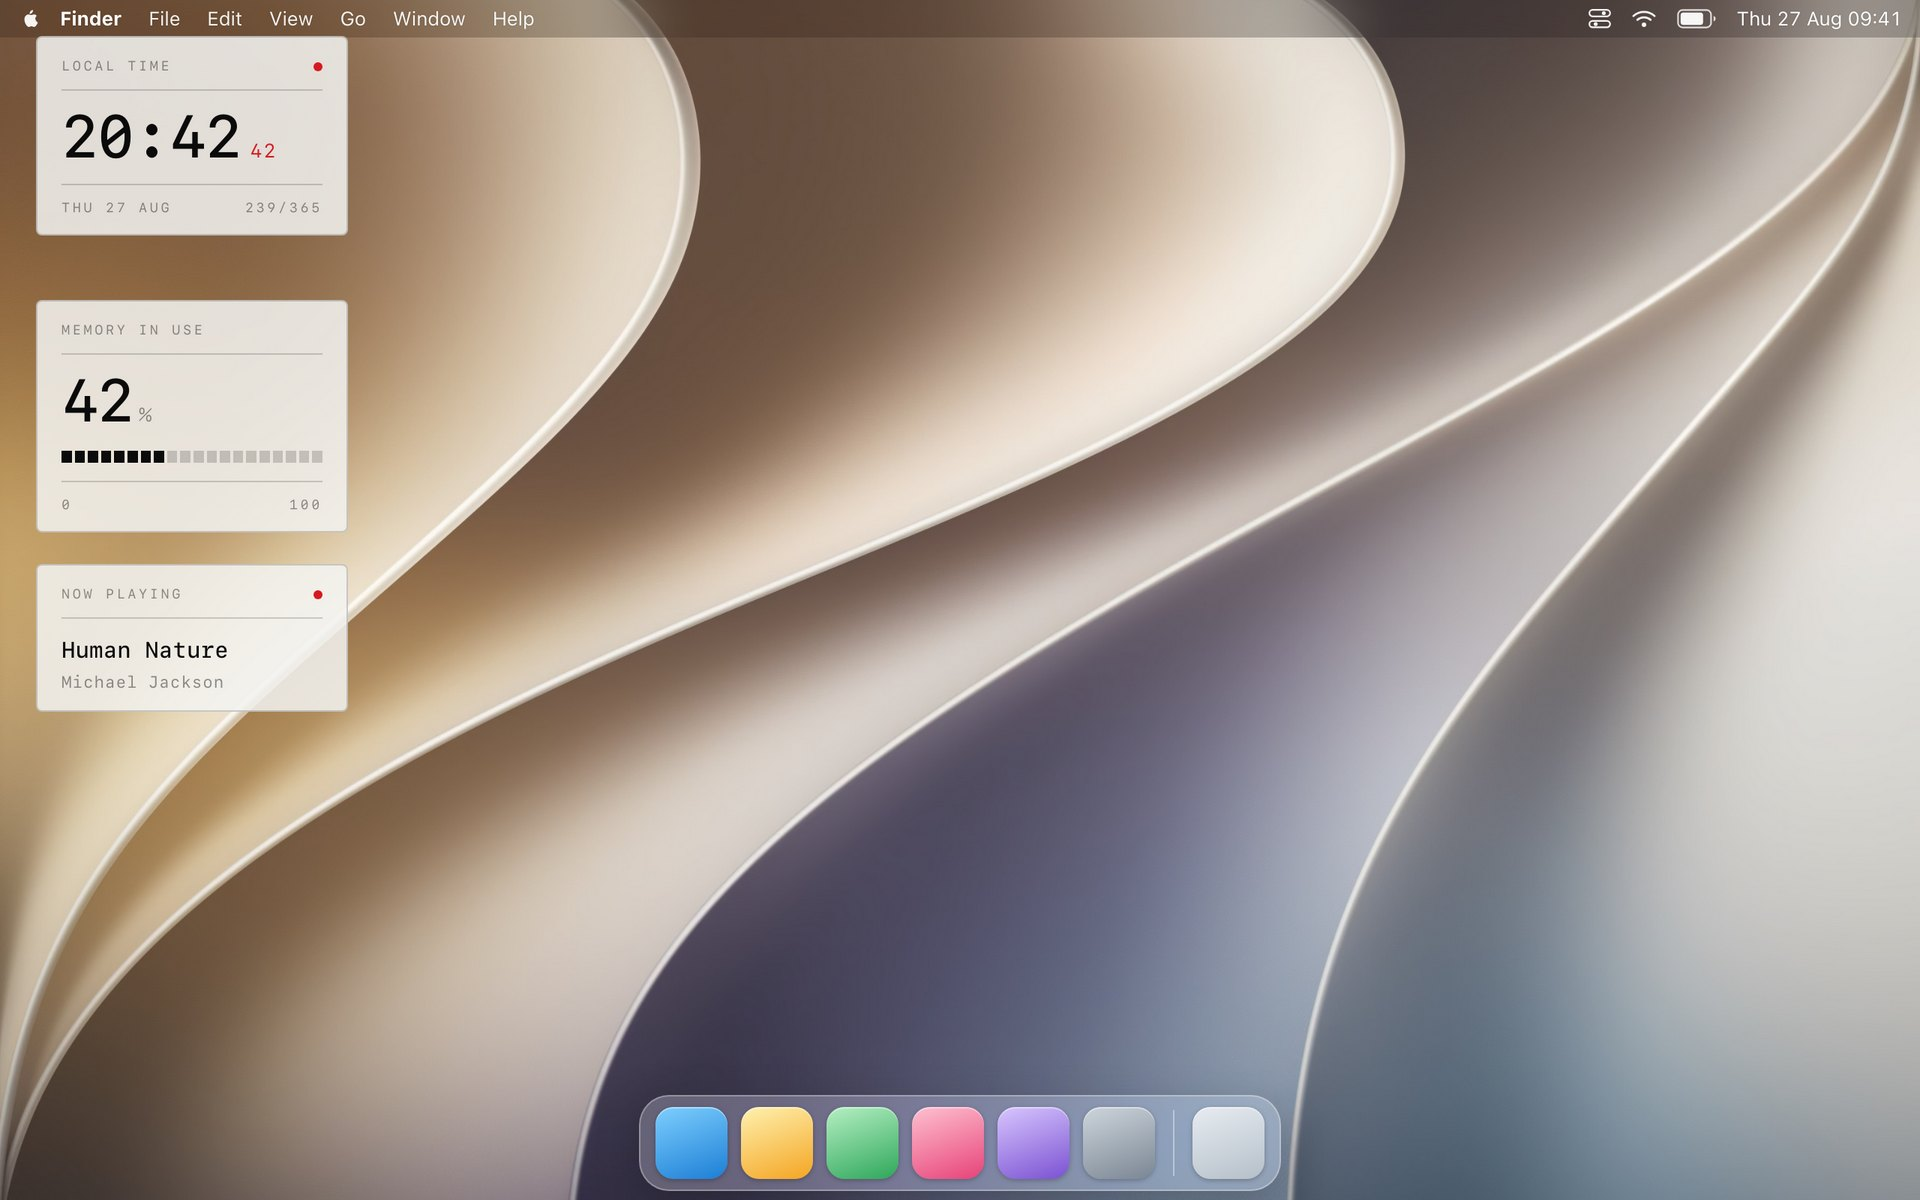
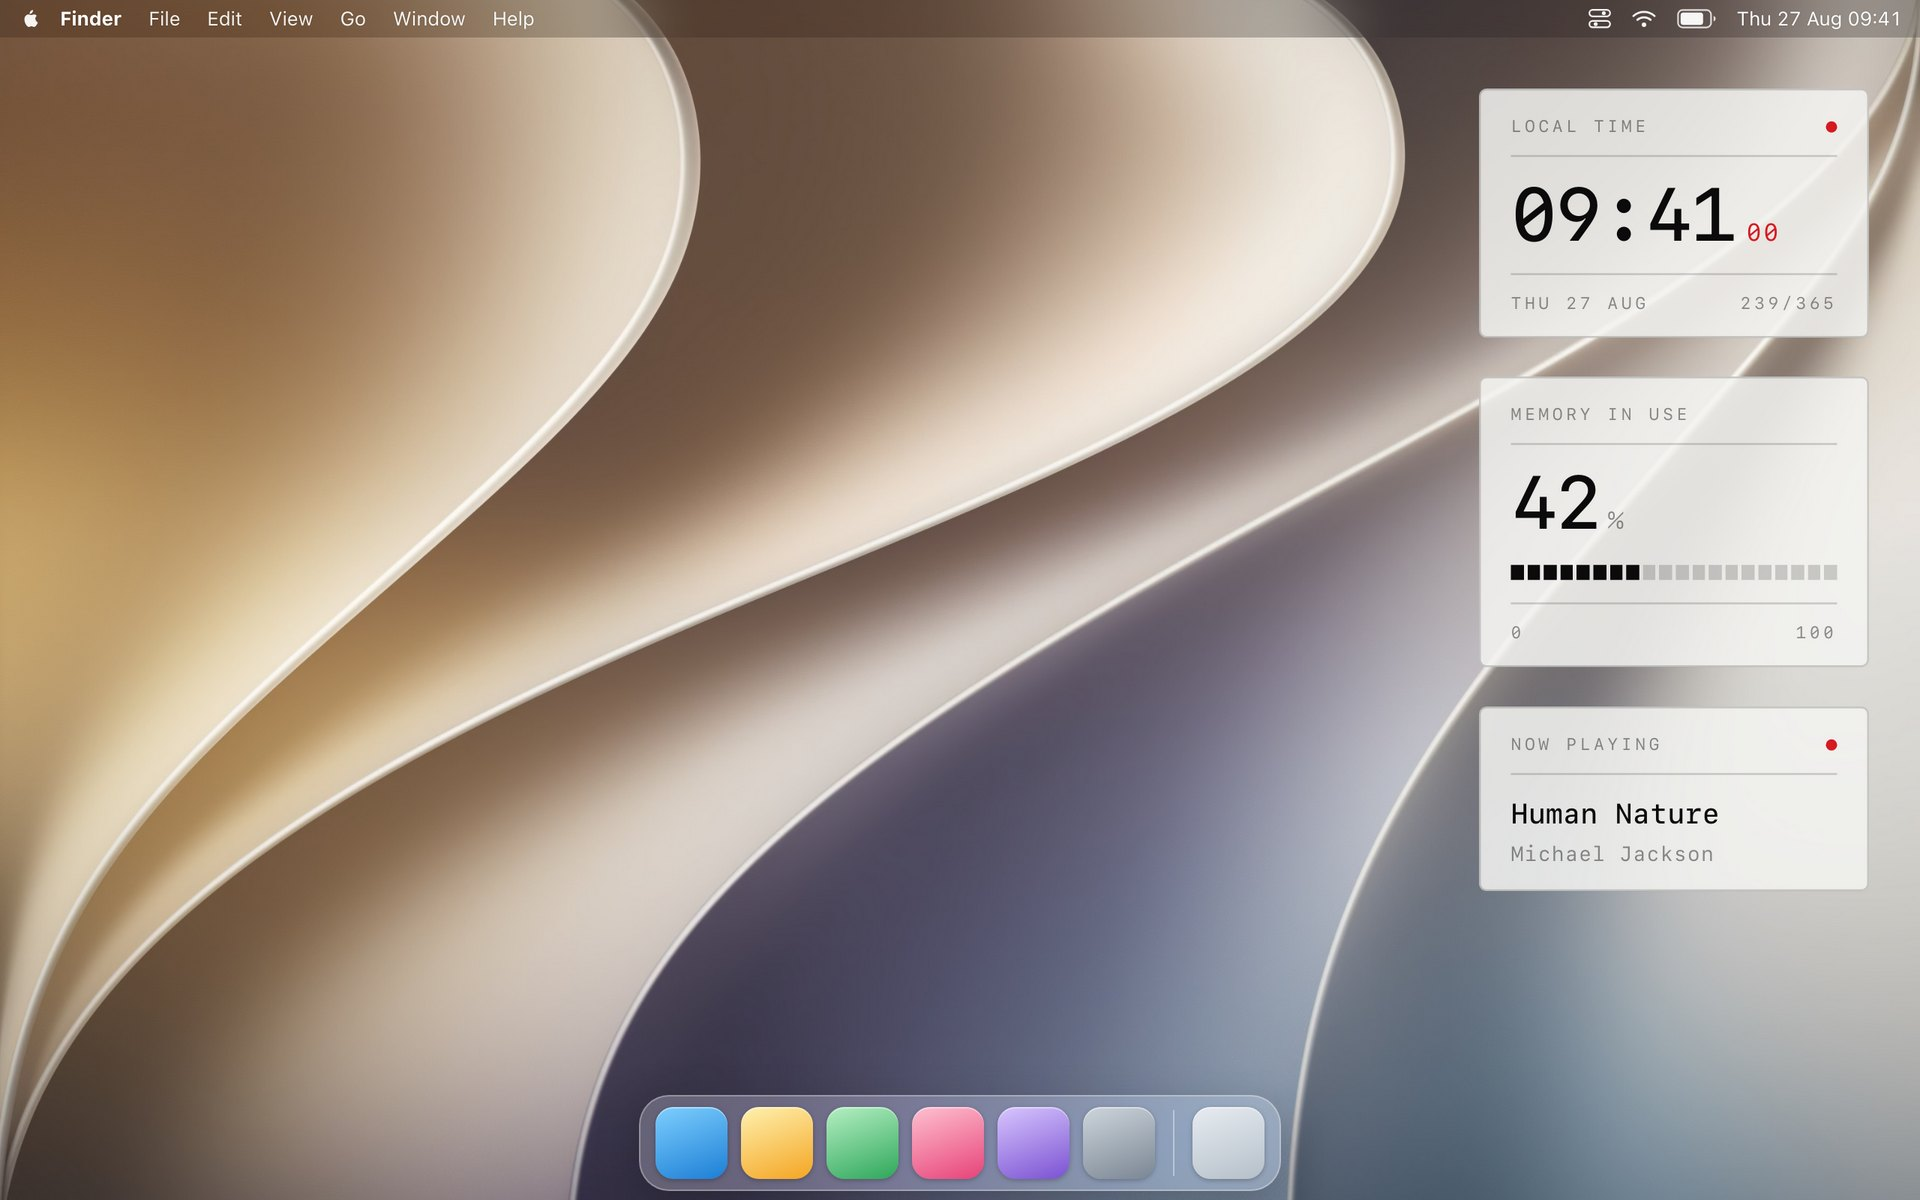
Give the headline room below the bar
The hero's top padding could fall to 60px while the fixed bar is about 76px tall, so on
a short window the headline started underneath it.

The screenshot is the one with the widgets down the right, evenly spaced and clear of
the menu bar.

diff --git a/app/globals.css b/app/globals.css
@@ -298,7 +298,9 @@ code,
 /* ---------- hero ---------- */
 
 .hero {
-  padding: clamp(60px, 11vh, 120px) 0 0;
+  /* the bar is fixed and about 76px tall, so the old 60px minimum tucked the
+     headline under it on a short window */
+  padding: clamp(124px, 15vh, 190px) 0 0;
   text-align: center;
 }
 
